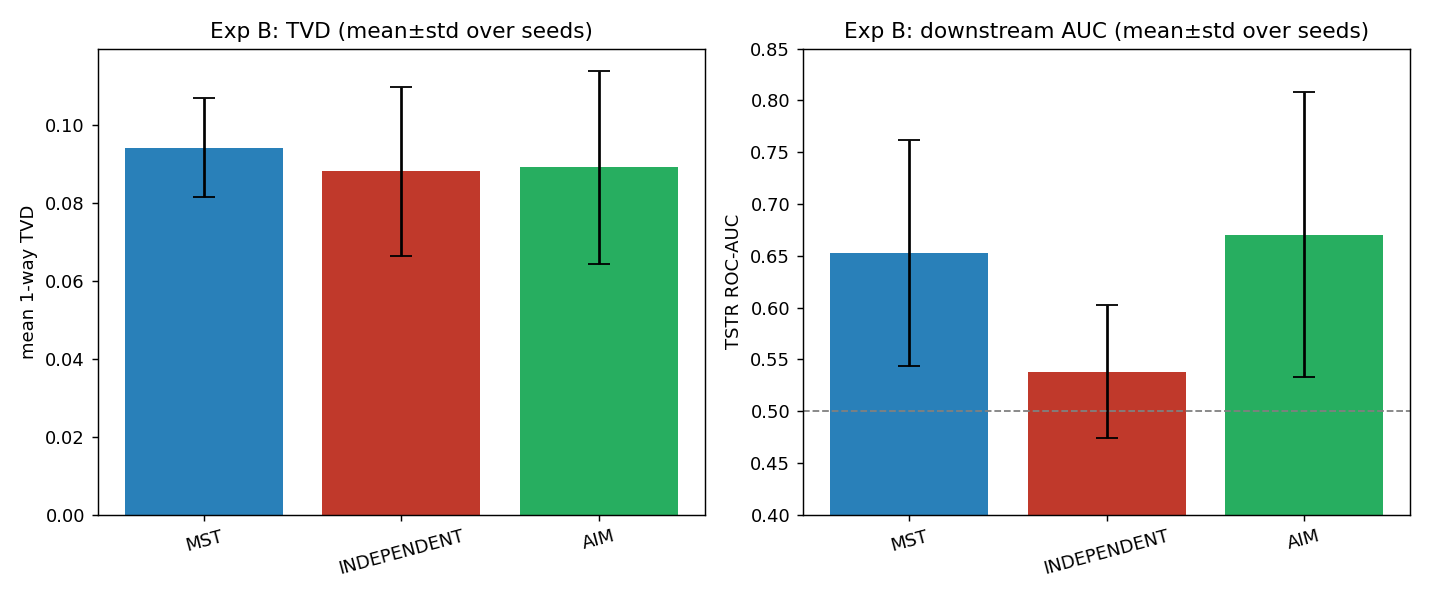
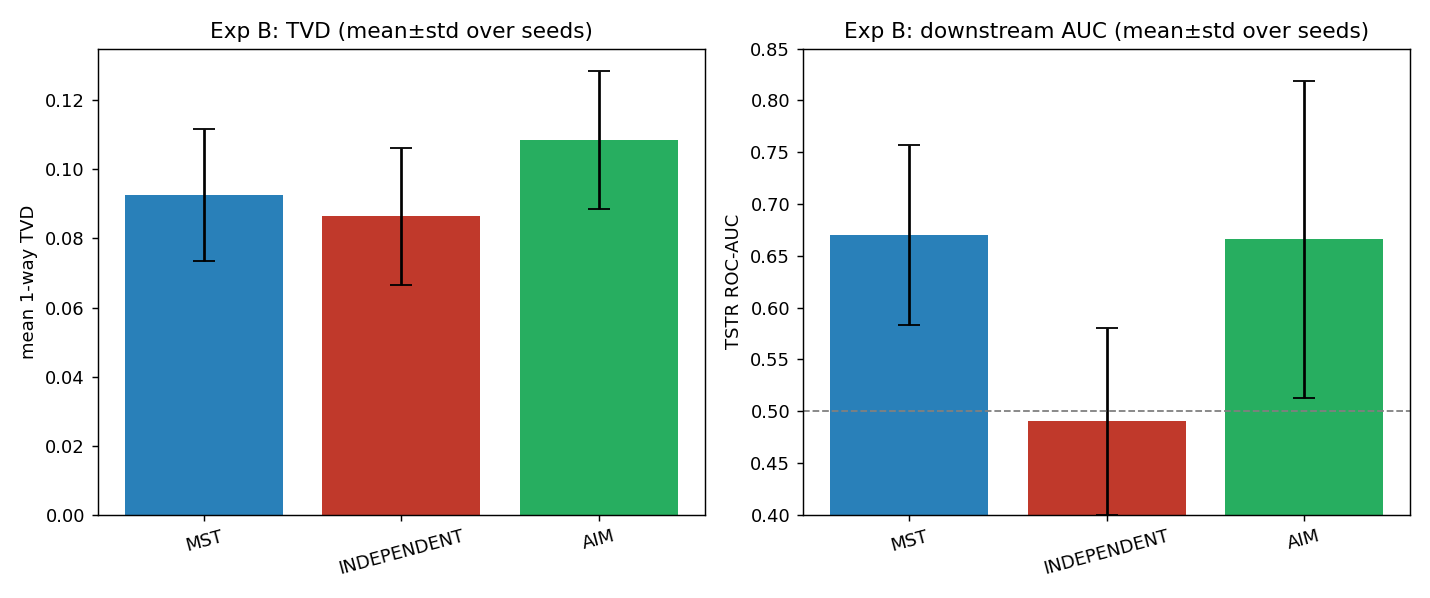
Update experiment B with 10/10/5-seed results
Re-ran the multi-seed robustness experiment in a clean environment with the
JAX cache-clearing fix (no memory failure this time).

- MST (n=10):         TVD 0.093±0.019,  TSTR AUC 0.670±0.087
- INDEPENDENT (n=10): TVD 0.086±0.020,  TSTR AUC 0.490±0.090
- AIM (n=5):          TVD 0.109±0.020,  TSTR AUC 0.666±0.153

With more seeds, MST and AIM are essentially tied on TSTR AUC (0.670 vs 0.666),
while INDEPENDENT stays clearly lowest. The std bands (±0.09-0.15) remain wide,
reinforcing the "compare over multiple seeds" caveat. Update EXPERIMENTS.md
table/findings, regenerate the figure, rebuild experiments.html. exp_a/exp_c
are unchanged.

https://claude.ai/code/session_01RETbK7ccJ4GJmWuyB7gmsq

diff --git a/EXPERIMENTS.md b/EXPERIMENTS.md
@@ -37,24 +37,25 @@
 ## 実験B: マルチシード頑健性(数値の揺れの定量化)
 
 メインの数値が単一シードで、再現環境では値が前後した件を受け、**seed を変えて mean±std** を測定(ε=1.0)。
-MST / INDEPENDENT は 5 シード、AIM は計算コストのため 3 シード。
+MST / INDEPENDENT は 10 シード、AIM は計算コストのため 5 シード。
 
 | 機構 | n(seeds) | 平均 1-way TVD | TSTR ROC-AUC |
 |---|---|---|---|
-| MST | 5 | 0.094 ± 0.013 | 0.653 ± 0.109 |
-| INDEPENDENT | 5 | 0.088 ± 0.022 | 0.538 ± 0.064 |
-| AIM | 3 | 0.089 ± 0.025 | 0.670 ± 0.137 |
+| MST | 10 | 0.093 ± 0.019 | 0.670 ± 0.087 |
+| INDEPENDENT | 10 | 0.086 ± 0.020 | 0.490 ± 0.090 |
+| AIM | 5 | 0.109 ± 0.020 | 0.666 ± 0.153 |
 
 ![expB](figures/expB_multiseed.png)
 
 **所見**:
-- **平均 1-way TVD は 3 機構でほぼ同じ(≈0.09)**。これは数値列の誤差が全機構で支配的なため(実験A参照)。
+- **平均 1-way TVD は 3 機構で同程度(0.09〜0.11)**。これは数値列の誤差が全機構で支配的なため(実験A参照)。
   1-way TVD だけでは機構の優劣はほとんど判別できない。
-- **TSTR AUC は AIM(0.670)≧ MST(0.653)> INDEPENDENT(0.538)** の順。
-  ただし **標準偏差が大きく(±0.06〜0.14)**、AIM と MST の差はシード次第で逆転しうる。
-  一方 **INDEPENDENT は一貫して最下位**(相関を捨てる構造的弱点)。
-- この大きなばらつきが、**「単一シードの数値を鵜呑みにせず、複数シード平均で比較すべき」**という
-  メインの再現性注意を定量的に裏付ける。
+- **TSTR AUC は MST(0.670)≈ AIM(0.666)> INDEPENDENT(0.490)** の順。
+  シード数を増やすと **MST と AIM はほぼ同等**(差 0.004、いずれも標準偏差 ±0.09〜0.15 より小さい)で、
+  優劣はシード次第で逆転しうる。一方 **INDEPENDENT は一貫して最下位**(相関を捨てる構造的弱点)。
+- 標準偏差が依然大きい(±0.09〜0.15)ことが、**「単一シードの数値を鵜呑みにせず、複数シード平均で比較すべき」**という
+  メインの再現性注意を定量的に裏付ける。シードを 5→10(AIM 3→5)に増やしても区間は十分には縮まっておらず、
+  機構間の小さな差を論じるにはさらなる試行が要る。
 
 ---
 